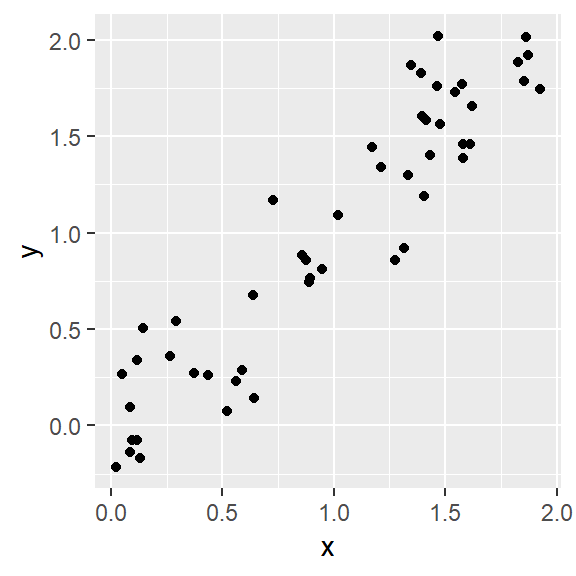
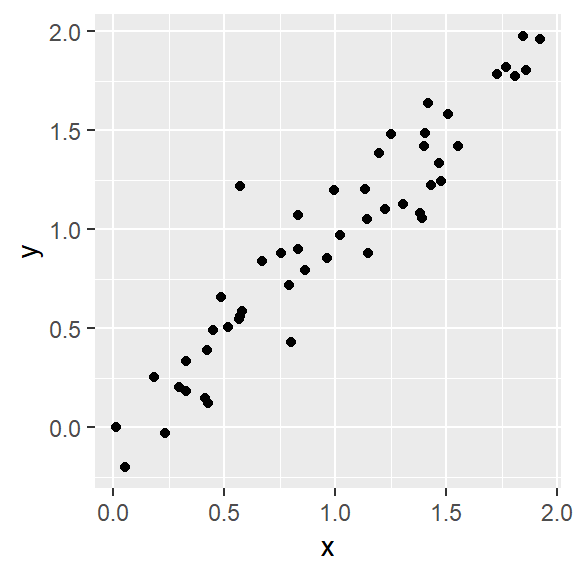
s08 initial

diff --git a/docs/index.html b/docs/index.html
@@ -121,6 +121,7 @@ $(document).ready(function () {
         <li><a href="#session-05-machine-learning-for-image-classification">Session 05: Machine learning for image classification</a></li>
         <li><a href="#session-06-accuracy-assessment-and-area-estimation">Session 06: Accuracy assessment and area estimation</a></li>
         <li><a href="#session-07-multi-temporal-change-detection">Session 07: Multi-temporal change detection</a></li>
+        <li><a href="#session-08-spectral-temporal-metrics">Session 08: Spectral-temporal metrics</a></li>
         <li><a href="#terminology">Terminology</a></li>
         </ul>
         </div>
@@ -210,7 +211,7 @@ data &lt;-<span class="st"> </span><span class="kw">data.frame</span>(<span clas
 <p><img src="index_files/figure-html/style-1.png" width="288" style="display: block; margin: auto;" /></p>
 <div class="sourceCode"><pre class="sourceCode r"><code class="sourceCode r"><span class="co"># Investigate correlation in the data</span>
 <span class="kw">cor</span>(data<span class="op">$</span>x, data<span class="op">$</span>y)</code></pre></div>
-<pre><code>[1] 0.9346357</code></pre>
+<pre><code>[1] 0.9444786</code></pre>
 <hr />
 </div>
 <div id="help" class="section level2">
@@ -1853,12 +1854,117 @@ Optional: Derive additional features from your data. Do you want to classify bas
 <li>For which type of (classification) problems can spectral-temporal metrics be useful?</li>
 </ul>
 <hr />
+</div>
+</div>
+<div id="session-08-spectral-temporal-metrics" class="section level1">
+<h1>Session 08: Spectral-temporal metrics</h1>
+<div id="learning-goals-9" class="section level2">
+<h2>Learning goals</h2>
+<ul>
+<li>Exploring the spectral-temporal characteristics of pastures and croplands in the Brazilian Amazon.</li>
+<li>Generate spectral-temporal metrics from an intra-annual time series of Landsat-derived TC components.</li>
+<li>Map pastures and cropland in the deforested areas.</li>
+</ul>
+</div>
+<div id="background-5" class="section level2">
+<h2>Background</h2>
+<p>Understanding post-deforestation land use is essential to disentangle the drivers of deforestation.</p>
+<div class="figure">
+<img src="fig/s08_lu.png" alt="Post-deforestation land uses in the study region include intensive soy cultivation (left) and rather extensive cattle ranching (right). Images: Philippe Rufin" />
+<p class="caption">Post-deforestation land uses in the study region include intensive soy cultivation (left) and rather extensive cattle ranching (right). Images: Philippe Rufin</p>
+</div>
+<p>From a remote sensing perspective, separating cropland and grassland is difficult due to similar spectral signatures, coupled with diverse management regimes. Looking at single points in time, croplands and pastures are difficult to discriminate. By creating an intra-annual time series, we might be able to capture exactly these differences in land surface phenology.</p>
+<div class="figure">
+<img src="fig/s08_tcg_ts.gif" alt="Intra-annual time series of Tasseled Cap Greenness for 2010." />
+<p class="caption">Intra-annual time series of Tasseled Cap Greenness for 2010.</p>
+</div>
+<p>Those differences can be emphasized by aggregation into spectral-temporal metrics.</p>
+<p>Spectral-temporal metrics are descriptive statistics of the spectral behaviour over time.</p>
+<p>Spectral-temporal metrics provided an efficient means to capture seasonal variations of land surface spectra and to reduce the impact of clouds and cloud-shadows by relaxing the otherwise strong cloud cover limitations imposed by image-based classification methods. (Pflugmacher)</p>
+<p>Can be calculated from spectral bands, but also indices or TC components Different metrics might be more or less useful depending on the application.</p>
+<hr />
+</div>
+<div id="exercise-9" class="section level2">
+<h2>Exercise</h2>
+<p>In this exercise you will map pastures and croplands in deforested areas of the Brazilian Amazon. You will use and generate spectral-temporal metrics to separate these two land covers which are difficult to discriminate using mono-temporal image data. This will allow you to investigate which land cover is primarily replacing forests in the region.</p>
+<p>We provide the following data in <a href="">our repository</a> and on drive O:</p>
+<ol style="list-style-type: lower-alpha">
+<li><p>…ts_stacks/: cloud-masked stacks of TC brightness (TCB), TC greenness (TCG), TC wetness (TCW) derived from 30 Landsat images acquired throughout 2010. Observation dates and sensors for each band in the stacks are listed in *.csv file.</p></li>
+<li><p>…spectemp/: eight spectral temporal metrics for TCB, TCG and TCW describing min, max, mean: minimum, maximum and mean value<br />
+p25, p50, p75: 25%, 50%, 75% percentile values<br />
+iqr: interquartile-range (25%-75%)<br />
+std: standard deviation.</p></li>
+<li><p>…vector/: a shapefile and *.kmz file with the study area and pixel extents</p></li>
+<li><p>….TerraClass2010/: the TerraClass 2010 map product and a corresponding QGIS layer style file which contains the class catalogue.</p></li>
+<li><p>…training/: a set of points to explore the spectral-temporal behaviour of your classes and to train your classification model.</p></li>
+<li><p>…validation/: a set of points to assess the accuracy of your final classification.</p></li>
+</ol>
+<p>Your tasks are as follows:</p>
+<div id="inspect-the-input-data" class="section level3">
+<h3>1) Inspect the input data</h3>
+<p>Open a new QGIS project and inspect the spectral-temporal metrics. Choose one indicator (e.g. Tasseled Cap Greenness) and load all layers. Make sure you understand what the metrics represent and discuss their meaning, robustness (e.g. against cloud contamination), and behaviour over different land cover types with your neighbor(s).</p>
+</div>
+<div id="assess-suitability-of-spectral-temporal-metrics" class="section level3">
+<h3>2) Assess suitability of spectral-temporal metrics</h3>
+<p>We provide a shapefile with training points for the following classes</p>
+<table>
+<thead>
+<tr class="header">
+<th>classID</th>
+<th>Class</th>
+</tr>
+</thead>
+<tbody>
+<tr class="odd">
+<td>1</td>
+<td>Pasture</td>
+</tr>
+<tr class="even">
+<td>2</td>
+<td>Cropland</td>
+</tr>
+<tr class="odd">
+<td>3</td>
+<td>Others</td>
+</tr>
+</tbody>
+</table>
+<p><code>extract()</code> the values at your training locations from the temporal stacks (e.g., …/ts_stacks/TCB.tif). Compare the phenological behavior of the classes with boxplots or line plots. Use the following code to import the acquisition dates of the Landsat images:</p>
+<div class="sourceCode"><pre class="sourceCode r"><code class="sourceCode r">sensor_date &lt;-<span class="st"> </span><span class="kw">read.table</span>(<span class="st">&#39;O:/ST19_MSc-EO/S08/data/ts_stacks/Landsat_2010_Sensor_Date.csv&#39;</span>, <span class="dt">sep=</span><span class="st">&quot;;&quot;</span>, <span class="dt">header=</span>T)</code></pre></div>
+<p>Summarize the main characteristics of the three classes over the growing season and identify major differences (please add your insights in comments in your script).<br />
+Select spectral-temporal metrics that capture the differences between croplands, pastures, and others well. Select at most six different metrics from the ones provided.</p>
+</div>
+<div id="compute-additional-spectral-temporal-metrics" class="section level3">
+<h3>3) Compute additional spectral-temporal metrics</h3>
+<p>Let´s compute two additional spectral-temporal metrics from the time series stacks.</p>
+<ol style="list-style-type: lower-alpha">
+<li>First, think about creating a temporal subset of your time series for highlighting differences which are most pronounced during specific seasons (e.g. ‘dry season’, ‘third quarter’ or ‘August’).</li>
+<li>Second, decide on the statistic to calculate. Your metrics can be for instance additional percentiles, information on the timing of specific events, such as the observation date of the minimum value, or differences between metrics. Be creative! How to do that: A number of summarizing functions can be applied directly to raster stacks (<code>mean()</code>, <code>max()</code>, <code>min()</code>, <code>range()</code>). If you want to calculate metrics other than those, you need to convert your raster stack into a matrix using as.matrix() and perform your calculations on this matrix using <code>apply()</code>. You can then write the results into a new raster, which you create using <code>raster()</code> and assign the results of your computation with the <em>vals</em> parameter.<br />
+See the following code template for a detailed example to compute the median Tasseled Cap Greenness. Computation might take several minutes - make use of the processing time by preparing the subsequent tasks.</li>
+</ol>
+<p><details> <summary>Click here to see code</summary></p>
+<div class="sourceCode"><pre class="sourceCode r"><code class="sourceCode r"><span class="kw">library</span>(raster)
+tcg.stack &lt;-<span class="st"> </span><span class="kw">stack</span>(<span class="st">&#39;O:/ST19_MSc-EO/S08/data/ts_stacks/TCG_stack.tif&#39;</span>)
+tcg.matrix &lt;-<span class="st"> </span><span class="kw">as.matrix</span>(tcg.stack)
+tcg.median &lt;-<span class="st"> </span><span class="kw">apply</span>(tcg.matrix, <span class="dv">1</span>, <span class="dt">FUN=</span>median, <span class="dt">na.rm=</span>T)
+tcg.median.raster &lt;-<span class="st"> </span><span class="kw">raster</span>(<span class="dt">nrows=</span>tcg.stack<span class="op">@</span>nrows, <span class="dt">ncols=</span>tcg.stack<span class="op">@</span>ncols, <span class="dt">crs=</span>tcg.stack<span class="op">@</span>crs, <span class="dt">vals=</span>tcg.median)
+<span class="kw">plot</span>(tcg.median.raster)</code></pre></div>
+<p></details></p>
+</div>
+<div id="train-and-apply-random-forest-model" class="section level3">
+<h3>4) Train and apply Random Forest Model</h3>
+<ol style="list-style-type: lower-alpha">
+<li><p>Train a Random Forest model based on your selected / computed spectral-temporal metrics. As always, make an informed decision about the ntree and mtry parameters.</p></li>
+<li><p>Produce a map using your Random Forest model and <code>mask()</code> the result with last week´s forest map, so only non-forest areas in 2010 are left. Write the result to disk.</p></li>
+</ol>
+</div>
+<div id="accuracy-assessment-and-explore-land-change-processes" class="section level3">
+<h3>5) Accuracy Assessment and explore land change processes</h3>
+<ol style="list-style-type: lower-alpha">
+<li><p>Assess the accuracy of the map using the validation data we provided. Run an additional iteration using different metrics in case you are not satisifed with your results.</p></li>
+<li><p>Combine the resulting map with your forest change map from last week to get a better insight into the land change processes of the study area. Calculate the fractions of deforested land occupied by pasture or cropland for each of the two time periods. Was forest primarily replaced by pastures or by cropland? How did this process change over the periods 2001-2005 and 2006-2010? Please enter your main results in <a href="https://ethercalc.org/sputdinazkck">this table</a>.</p></li>
+</ol>
 <!-- 
-
-# Session 08: Spectral-temporal metrics
-
-## Learning goals
-
 ## Reading materials.
 
 ------
@@ -1874,6 +1980,7 @@ Optional: Derive additional features from your data. Do you want to classify bas
 ------ 
 
 -->
+</div>
 </div>
 </div>
 <div id="terminology" class="section level1">
